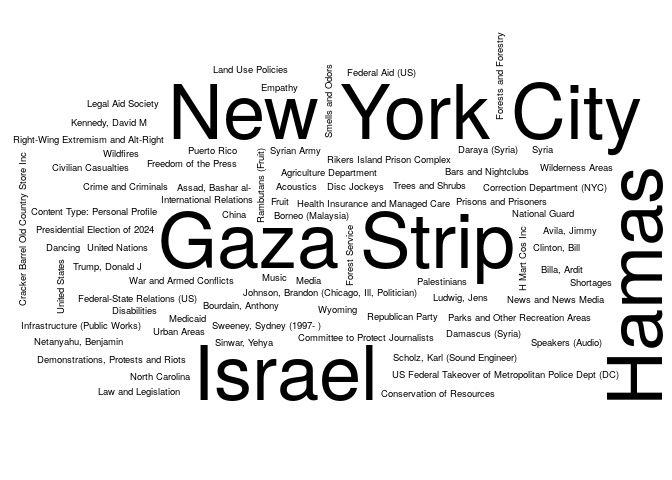
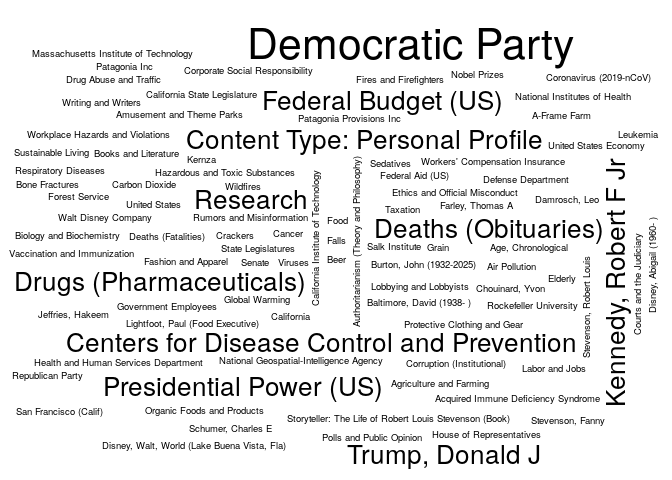
Updating the NYT report

Changed region(s): [[0.0, 0.0312, 1.0, 0.9688], [0.0312, 0.8438, 0.1562, 0.875]]

diff --git a/03-nytimes/README.md b/03-nytimes/README.md
@@ -5,7 +5,7 @@ The following is an example of how to use the [NYTimes
 API](https://developer.nytimes.com/) to get a list of articles related
 to a particular term. Here we are searching articles that include the
 term `"health"`, and that were published up to seven days ago since
-2025-09-01.
+2025-09-08.
 
 ``` r
 # Preparing a function to use the GET method with the NYTimes API
@@ -83,25 +83,25 @@ colnames(tab) <- c("Keyword", "# Articles")
 knitr::kable(tab, row.names = FALSE)
 ```
 
-| Keyword                               | \# Articles |
-|:--------------------------------------|------------:|
-| Conservatism (US Politics)            |          10 |
-| Deaths (Fatalities)                   |          10 |
-| Gaza Strip                            |          10 |
-| Hamas                                 |          10 |
-| Israel                                |          10 |
-| Israel-Gaza War (2023- )              |          10 |
-| New York City                         |          10 |
-| United States Politics and Government |          10 |
-| Acoustics                             |           5 |
-| Agriculture Department                |           5 |
-| Assad, Bashar al-                     |           5 |
-| Avila, Jimmy                          |           5 |
-| Bars and Nightclubs                   |           5 |
-| Billa, Ardit                          |           5 |
-| Borneo (Malaysia)                     |           5 |
-| Bourdain, Anthony                     |           5 |
-| China                                 |           5 |
-| Civilian Casualties                   |           5 |
-| Clinton, Bill                         |           5 |
-| Committee to Protect Journalists      |           5 |
+| Keyword                                    | \# Articles |
+|:-------------------------------------------|------------:|
+| United States Politics and Government      |          25 |
+| Democratic Party                           |          15 |
+| Centers for Disease Control and Prevention |          10 |
+| Content Type: Personal Profile             |          10 |
+| Deaths (Obituaries)                        |          10 |
+| Drugs (Pharmaceuticals)                    |          10 |
+| Federal Budget (US)                        |          10 |
+| Kennedy, Robert F Jr                       |          10 |
+| Medicine and Health                        |          10 |
+| Presidential Power (US)                    |          10 |
+| Research                                   |          10 |
+| Trump, Donald J                            |          10 |
+| A-Frame Farm                               |           5 |
+| Acquired Immune Deficiency Syndrome        |           5 |
+| Age, Chronological                         |           5 |
+| Agriculture and Farming                    |           5 |
+| Air Pollution                              |           5 |
+| Amusement and Theme Parks                  |           5 |
+| Authoritarianism (Theory and Philosophy)   |           5 |
+| Baltimore, David (1938- )                  |           5 |
